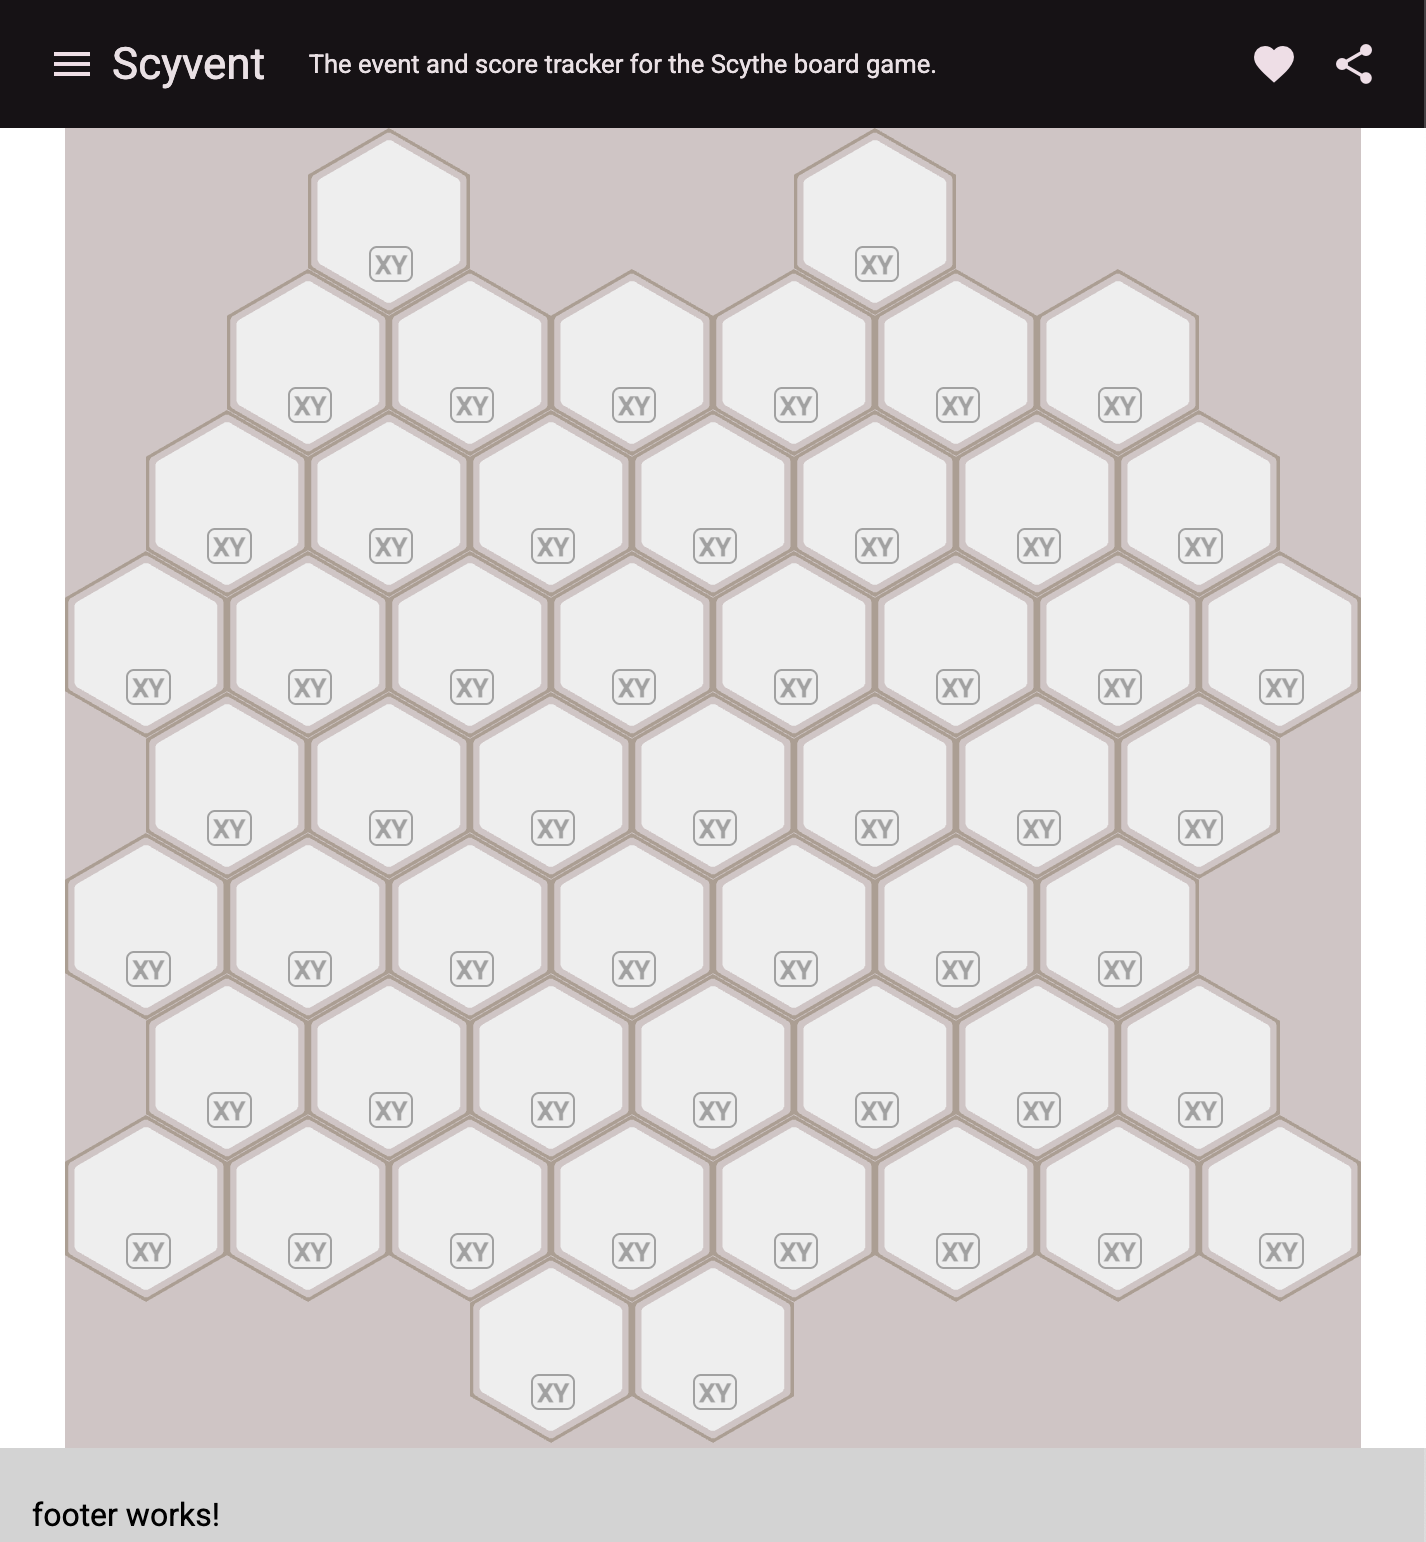
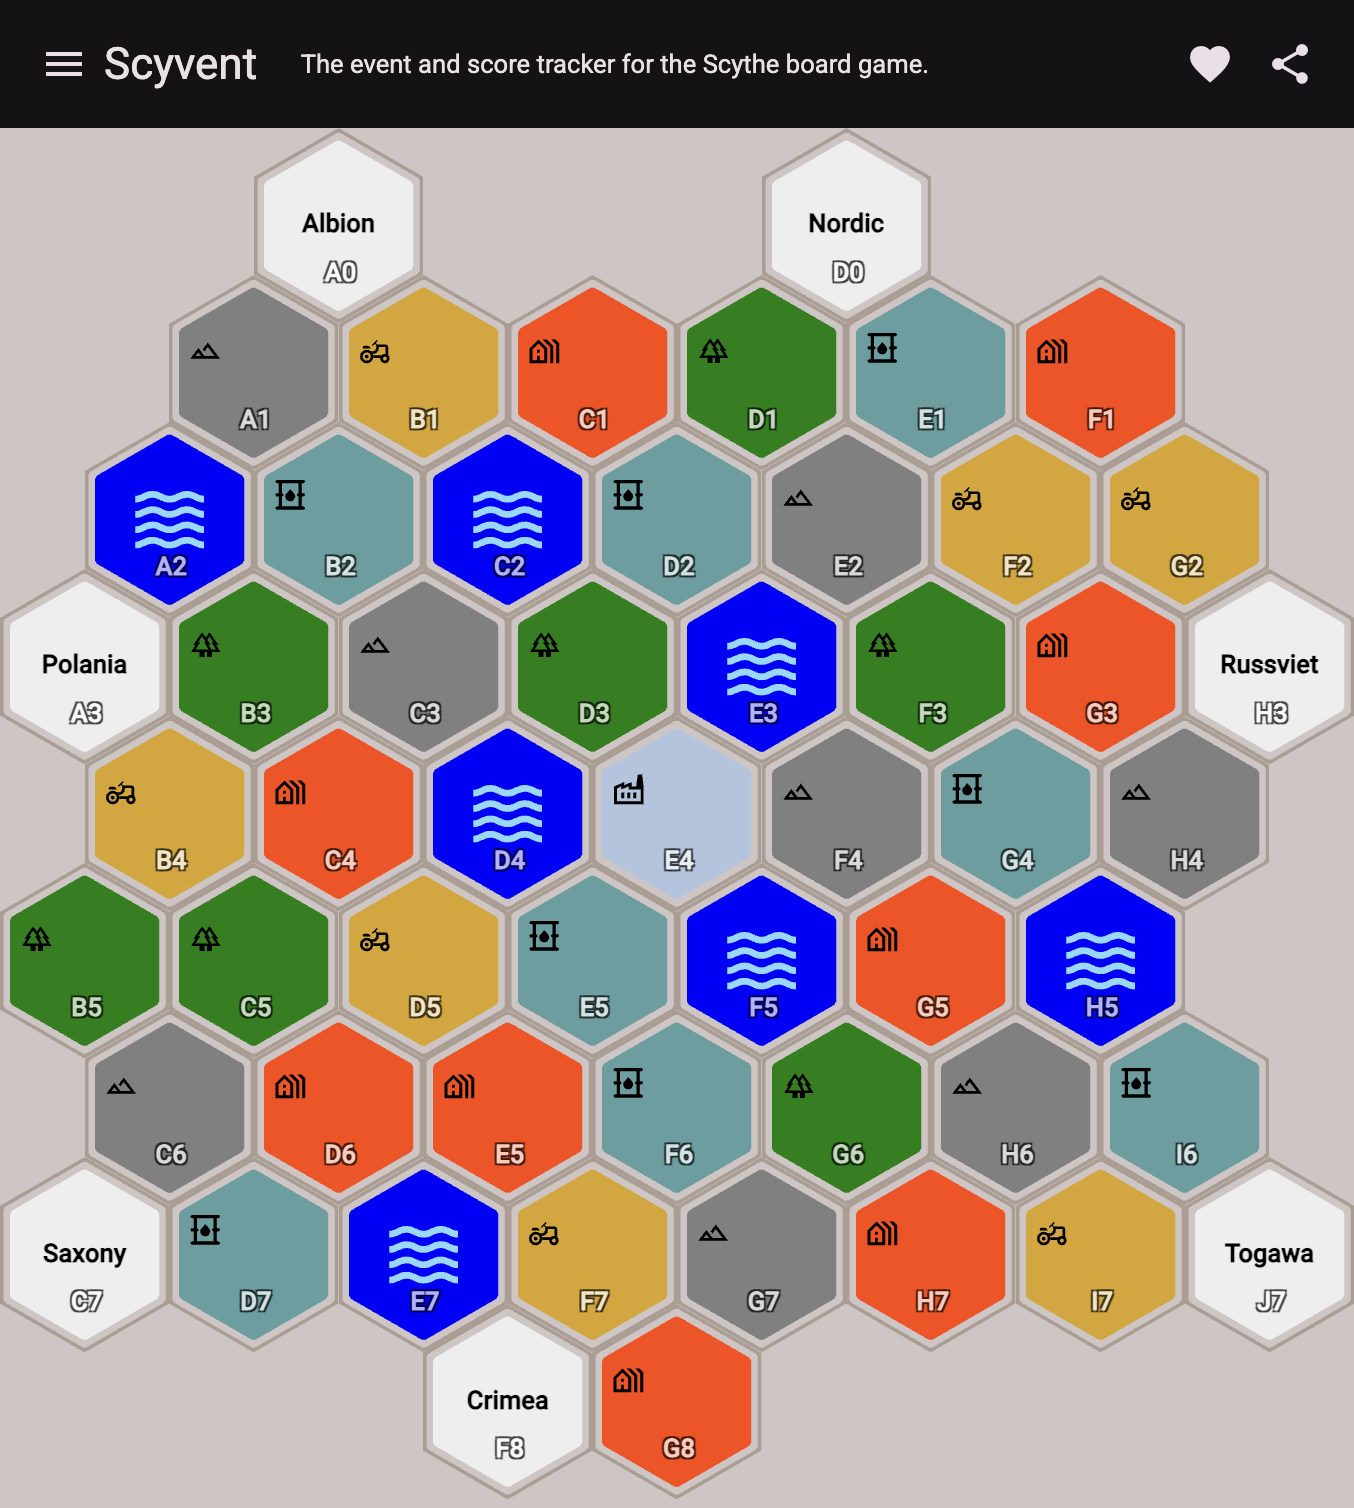
classic board wip

diff --git a/src/app/components/board/board.component.html b/src/app/components/board/board.component.html
@@ -58,7 +58,7 @@
 		<hextile fi="I6" terrain="tundra"></hextile>
 	</div>
 	<div class="line" id="l8">
-		<hextile fi="C7" textlabel="Sachsen"></hextile>
+		<hextile fi="C7" textlabel="Saxony"></hextile>
 		<hextile fi="D7" terrain="tundra"></hextile>
 		<hextile fi="E7" terrain="lake"></hextile>
 		<hextile fi="F7" terrain="farm"></hextile>
@@ -68,7 +68,7 @@
 		<hextile fi="J7" textlabel="Togawa"></hextile>
 	</div>
 	<div class="line" id="l9">
-		<hextile fi="F8" textlabel="Krim"></hextile>
+		<hextile fi="F8" textlabel="Crimea"></hextile>
 		<hextile fi="G8" terrain="village"></hextile>
 	</div>
 </div>

diff --git a/src/app/components/board/board.component.scss b/src/app/components/board/board.component.scss
@@ -10,8 +10,7 @@
 	//--leftOffset: 47px;
 	--leftOffset: calc(var(--hexWidth)/2);
 	div#board {
-		// background-color: #cfc5c5;
-		background-image: url('main-board.png');
+		background-color: #cfc5c5;
 		background-size: cover;
 		margin: 0;
 		display: flex;
